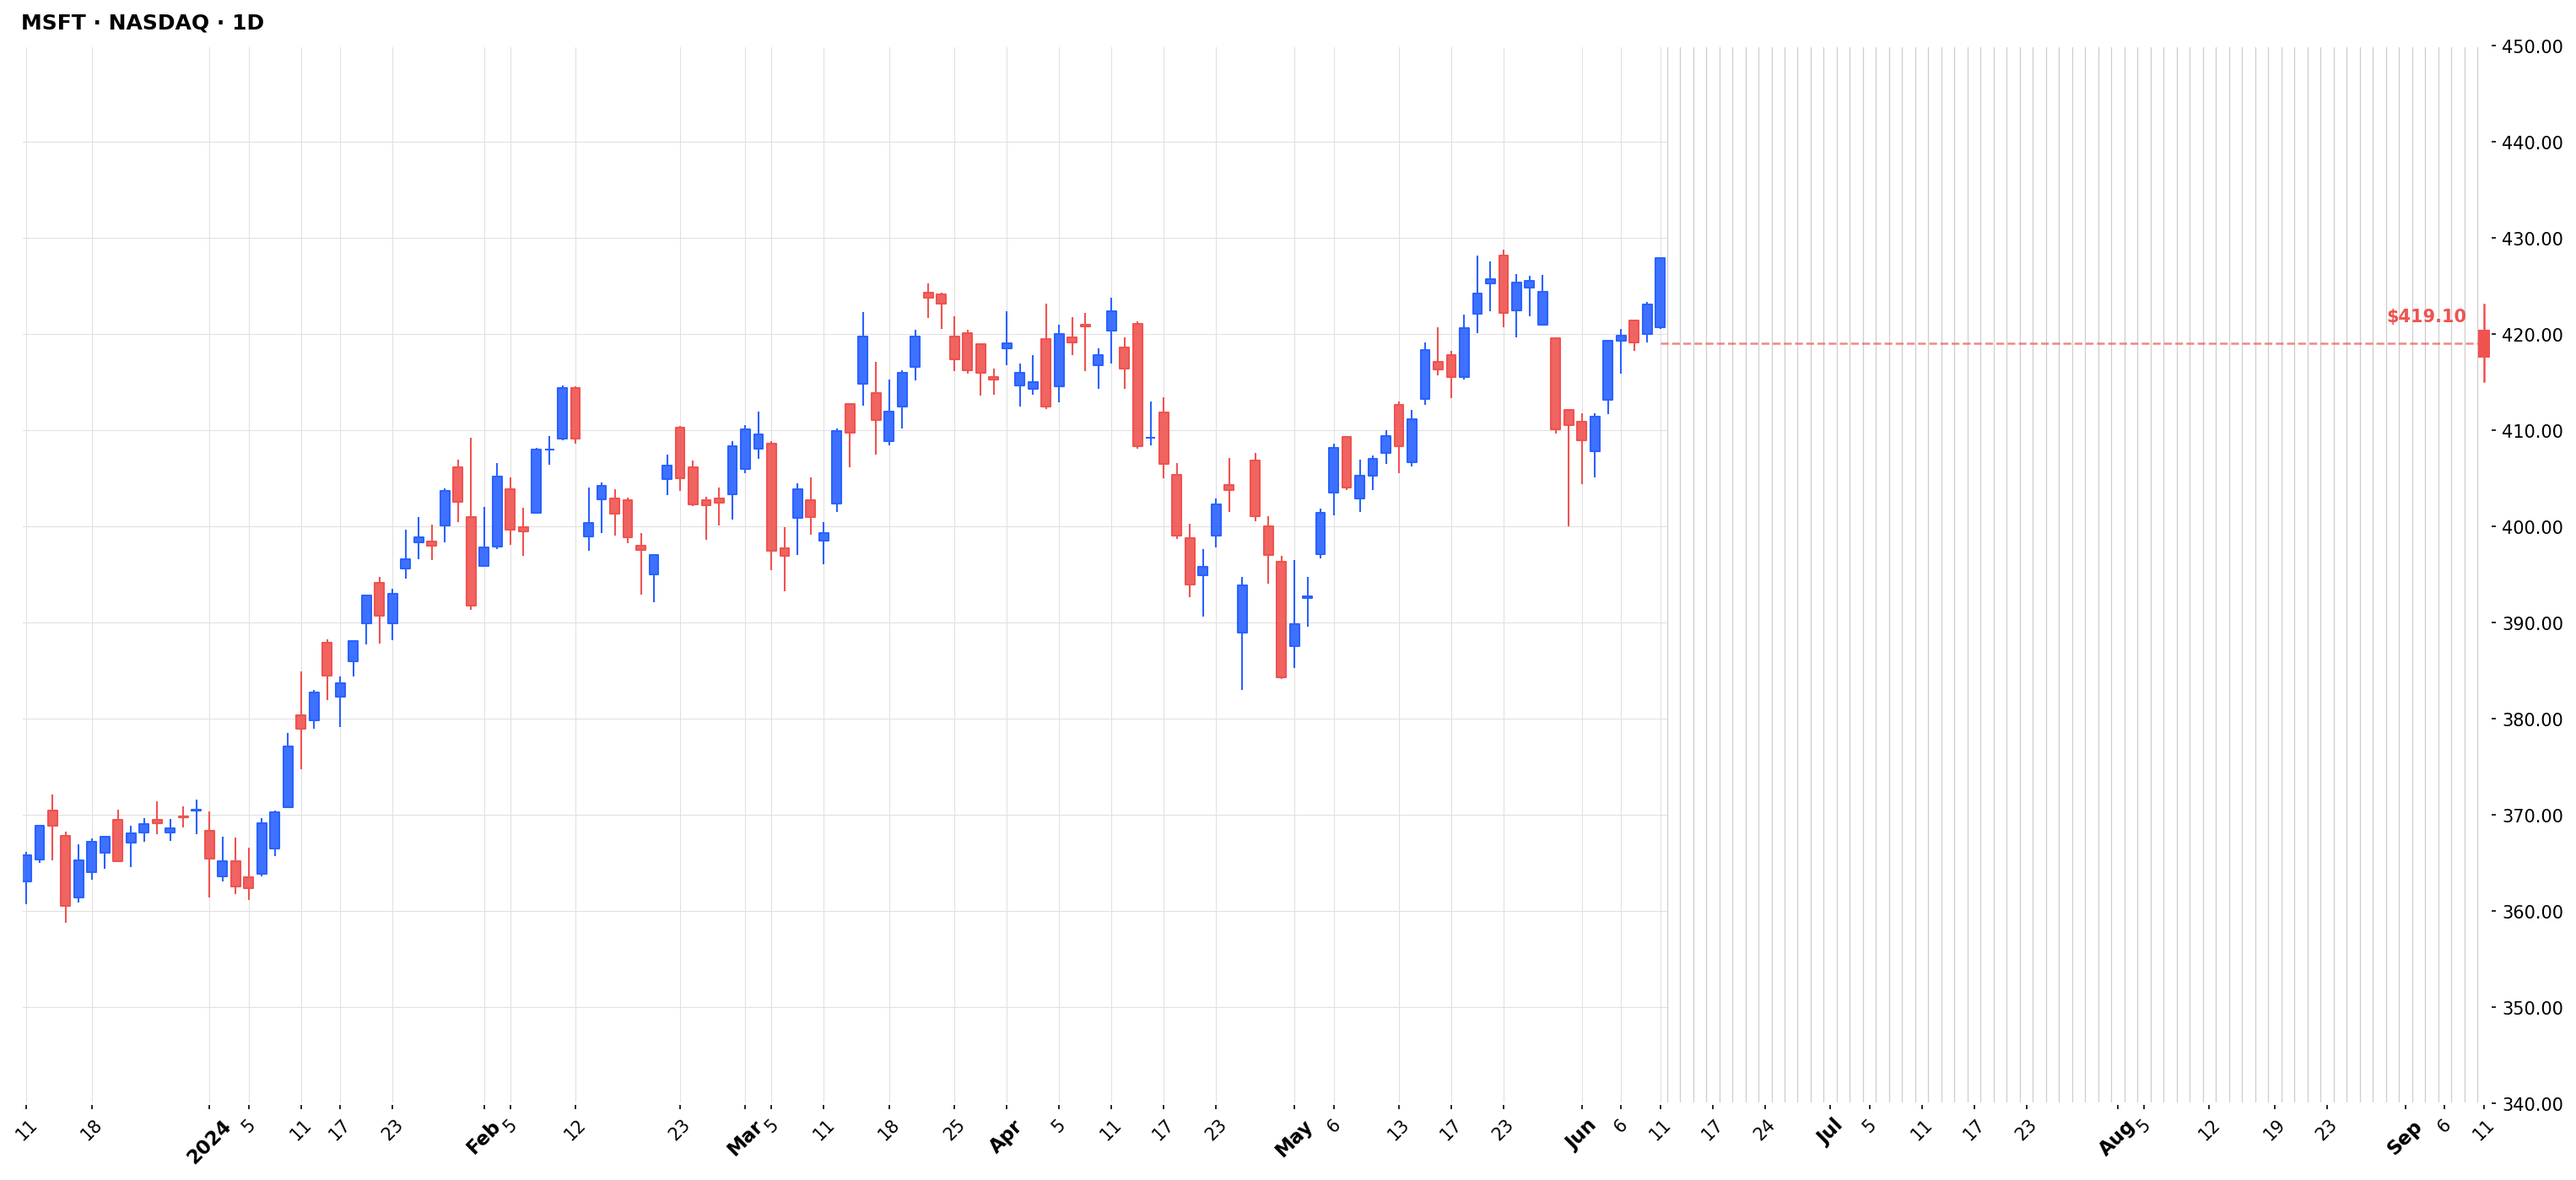
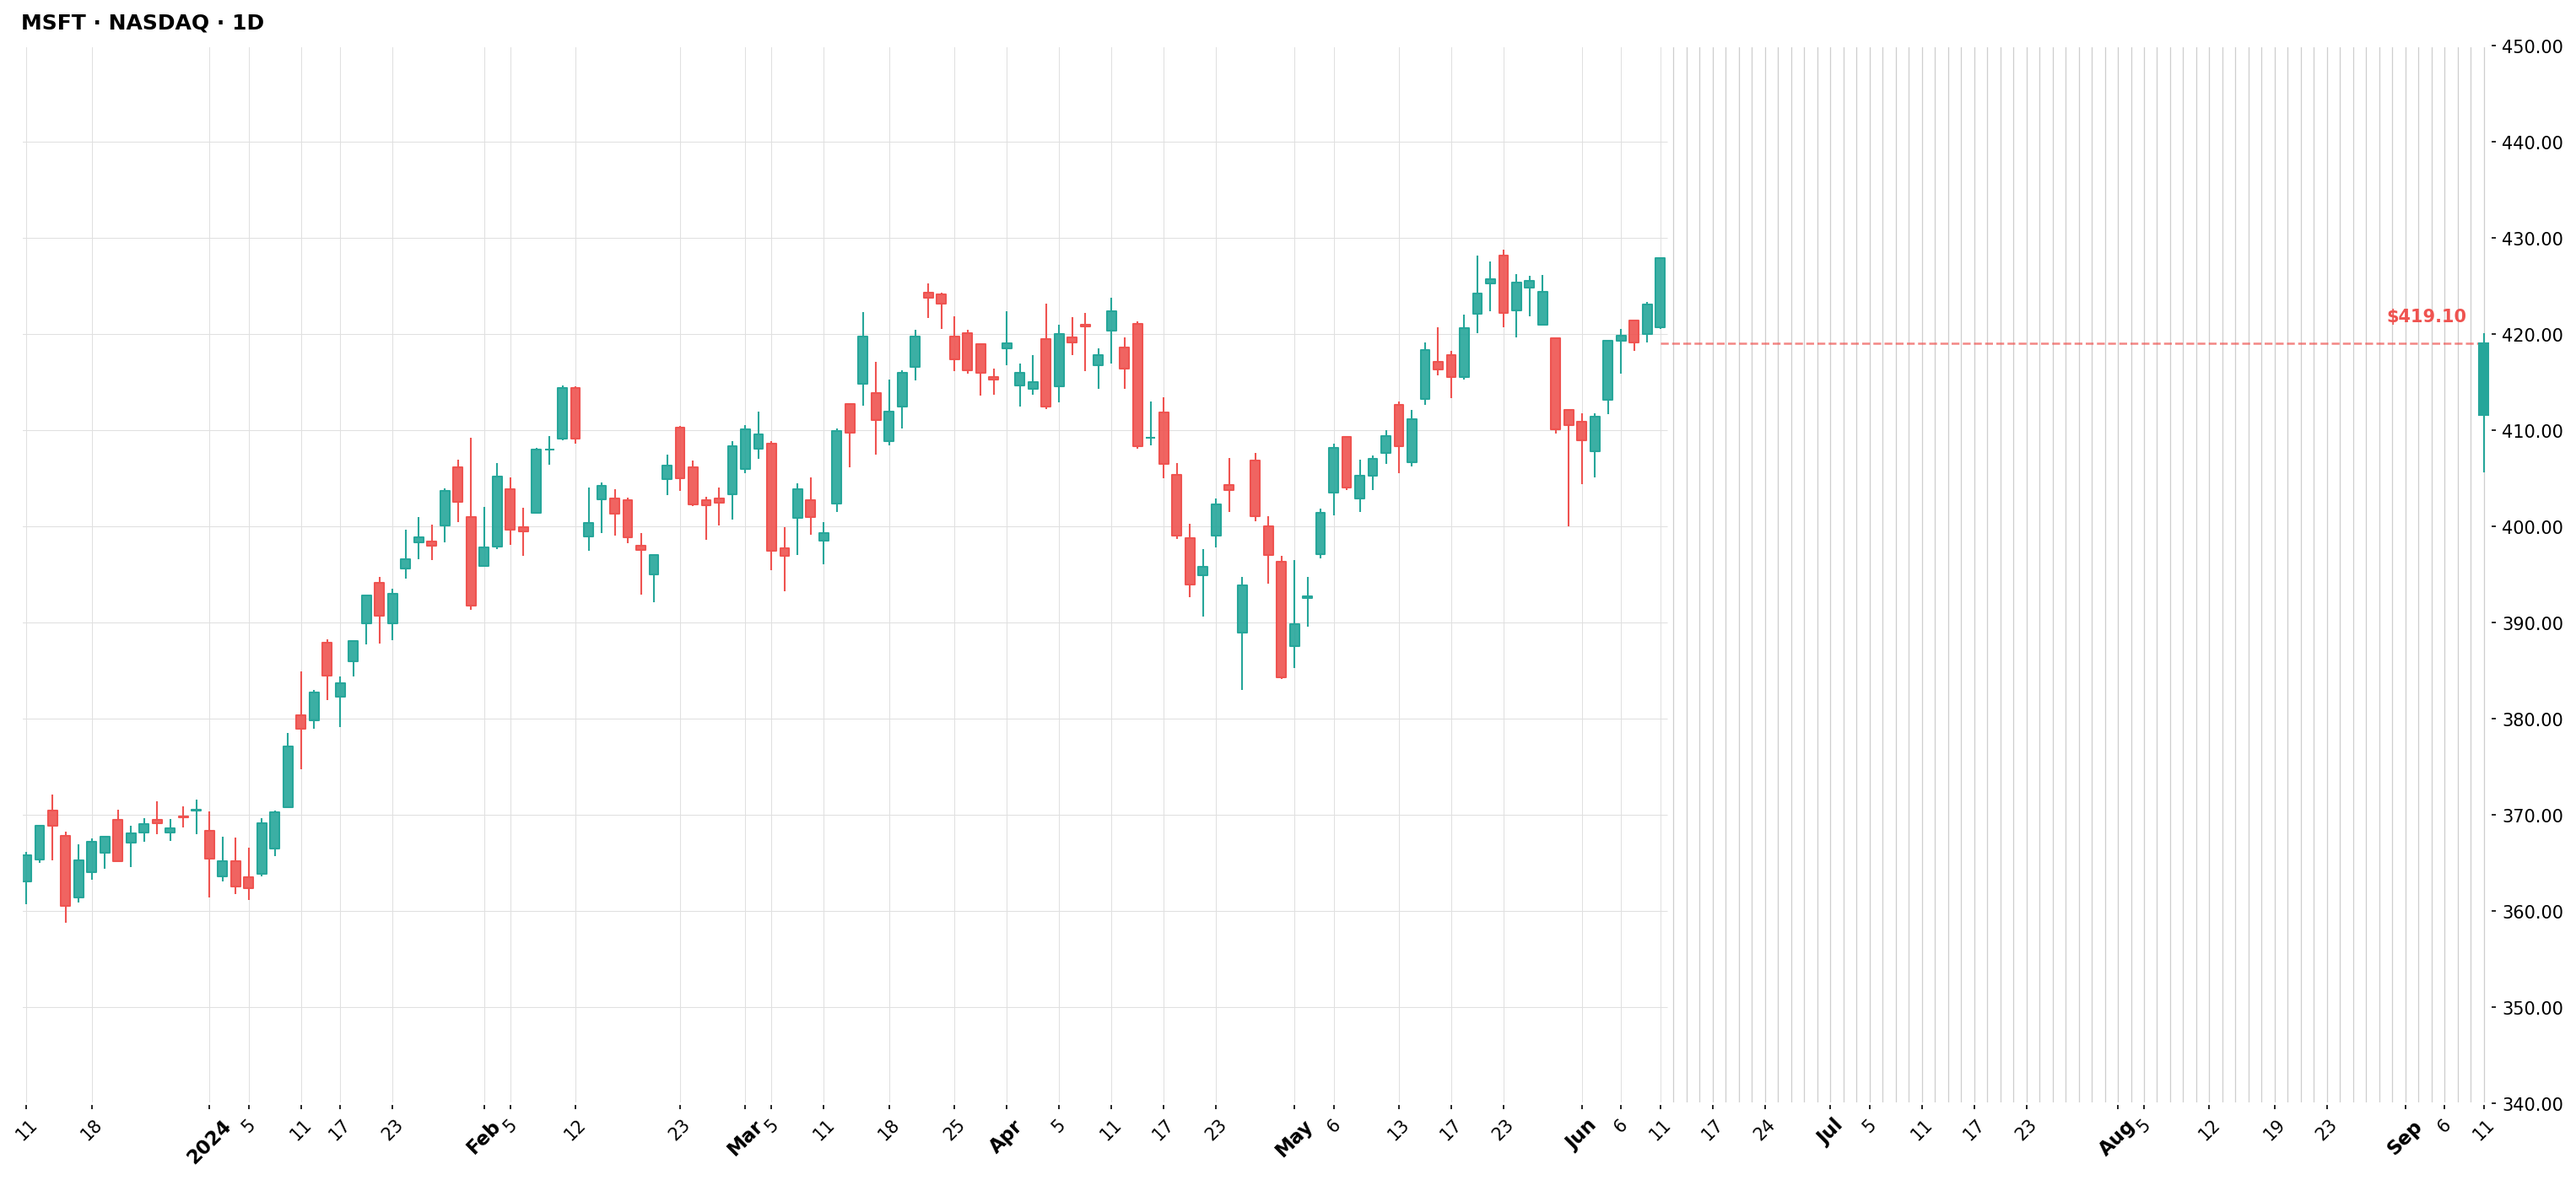
chart_prediction: 정답 캔들을 OHLC 실제 캔들로 교체 + 세로선을 거래일 위치에 정렬
- 빨간 가짜 캔들 박스 → 마지막 날의 실제 OHLC 캔들(초록↑/빨강↓) 삽입
- 예측 영역 세로 구분선 위치를 반-정수(0.5)에서 정수로 이동 → 각 캔들이 선 위에 꽂히는 형태
- 빨간 점선 타겟 + $XX.XX 라벨은 그대로 유지

diff --git a/chart_prediction/scripts/generate_candle_chart.py b/chart_prediction/scripts/generate_candle_chart.py
@@ -91,9 +91,10 @@ tv_style = mpf.make_mpf_style(
 
 
 def generate_chart(ohlcv: pd.DataFrame, ticker: str, suffix: str, title: str = "",
-                   ylim=None, end_close=None):
+                   ylim=None, end_close=None, end_ohlc=None):
     """캔들차트 이미지 생성 & 저장
-    end_close: 차트 마지막 날짜에 표시할 종가 (점 + 가격 라벨)
+    end_close: 차트 마지막 날짜의 종가 (빨간 점선 + 가격 라벨용)
+    end_ohlc:  (open, high, low, close) 튜플 - 마지막 칸에 실제 정답 캔들 삽입
     """
     if len(ohlcv) == 0:
         print(f"  [SKIP] {ticker} - no data")
@@ -222,11 +223,12 @@ def generate_chart(ohlcv: pd.DataFrame, ticker: str, suffix: str, title: str = "
                     solid_capstyle="butt",
                 )
 
-        # ── 1) 예측 영역 거래일 단위 세로 구분선 ──
+        # ── 1) 예측 영역: 각 거래일 위치(정수 좌표)에 세로선 ──
+        #       → 예측 캔들/정답 캔들이 이 선에 꽂히도록
         n_pred = last_x - split_x
-        for i in range(n_pred + 1):
+        for i in range(1, n_pred + 1):
             ax.axvline(
-                x=split_x + 0.5 + i,
+                x=split_x + i,
                 color="#c9c9c9", linewidth=0.6, zorder=1, alpha=0.9,
             )
 
@@ -234,20 +236,24 @@ def generate_chart(ohlcv: pd.DataFrame, ticker: str, suffix: str, title: str = "
         ax.plot([split_x, last_x], [end_close, end_close],
                 color="#ef5350", linewidth=1.2, linestyle="--", alpha=0.7, zorder=4)
 
-        # ── 3) 목표 가격 캔들 박스 (점 대신 캔들 body 형태) ──
-        candle_half_height = (y_hi - y_lo) * 0.012  # 캔들 body 높이 (차트 높이의 ~2.4%)
-        candle_box = Rectangle(
-            (last_x - candle_width / 2, end_close - candle_half_height),
-            candle_width, candle_half_height * 2,
-            linewidth=1.5, edgecolor="#ef5350", facecolor="#ef5350",
-            zorder=5,
-        )
-        ax.add_patch(candle_box)
-        # 위아래 wick (심지)
-        wick_half = candle_half_height * 2.0
-        ax.plot([last_x, last_x],
-                [end_close - candle_half_height - wick_half, end_close + candle_half_height + wick_half],
-                color="#ef5350", linewidth=1.2, zorder=4)
+        # ── 3) 마지막 칸에 실제 OHLC 정답 캔들 삽입 ──
+        if end_ohlc is not None:
+            e_open, e_high, e_low, e_close = end_ohlc
+            is_up = e_close >= e_open
+            body_color = "#26a69a" if is_up else "#ef5350"  # 초록↑/빨강↓
+            # wick (심지)
+            ax.plot([last_x, last_x], [e_low, e_high],
+                    color=body_color, linewidth=1.0, zorder=5)
+            # body (실제 OHLC 박스)
+            body_lo = min(e_open, e_close)
+            body_hi = max(e_open, e_close)
+            body_h = max(body_hi - body_lo, (y_hi - y_lo) * 0.001)  # doji 최소 두께 보정
+            ax.add_patch(Rectangle(
+                (last_x - candle_width / 2, body_lo),
+                candle_width, body_h,
+                linewidth=1.0, edgecolor=body_color, facecolor=body_color,
+                zorder=5,
+            ))
 
         # 가격 라벨
         ax.annotate(
@@ -302,12 +308,20 @@ def main():
         blank_data.loc[blank_data.index > split_dt, ["Open", "High", "Low", "Close", "Volume"]] = float("nan")
         visible_part = blank_data.loc[blank_data.index <= split_dt]
         actual_end_close = full_data["Close"].iloc[-1]
-        ylim_lo = min(visible_part["Low"].min(), actual_end_close) * 0.97
-        ylim_hi = max(visible_part["High"].max(), actual_end_close) * 1.03
+        actual_end_ohlc = (
+            float(full_data["Open"].iloc[-1]),
+            float(full_data["High"].iloc[-1]),
+            float(full_data["Low"].iloc[-1]),
+            float(full_data["Close"].iloc[-1]),
+        )
+        # ylim은 마지막 날의 High/Low도 반영
+        ylim_lo = min(visible_part["Low"].min(), actual_end_ohlc[2]) * 0.97
+        ylim_hi = max(visible_part["High"].max(), actual_end_ohlc[1]) * 1.03
         title_blank = f"{ticker} · NASDAQ · 1D"
         path_blank = generate_chart(
             blank_data, ticker, "blank_3m", title_blank,
             ylim=(ylim_lo, ylim_hi), end_close=actual_end_close,
+            end_ohlc=actual_end_ohlc,
         )
         n_visible = visible_part.dropna().shape[0]
         print(f"  입력 차트: {path_blank} ({n_visible} candles + blank)")
